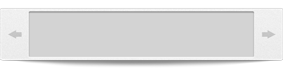
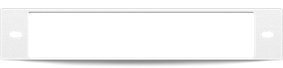
Started stubbing out the scroll view on the business card (lots of test code in the view currently)

diff --git a/QuizIn/QuizIn/Source/Classes/UI/Screens/Quizzes/BusinessCard/BusinessCardAnswer/QIBusinessCardAnswerView.m b/QuizIn/QuizIn/Source/Classes/UI/Screens/Quizzes/BusinessCard/BusinessCardAnswer/QIBusinessCardAnswerView.m
@@ -7,10 +7,15 @@
 //
 
 #import "QIBusinessCardAnswerView.h"
+#import "QIFontProvider.h"
 
 @interface QIBusinessCardAnswerView ()
 
 @property(nonatomic, strong) UIImageView *answerHolder;
+@property(nonatomic, strong) UIScrollView *answerScrollView;
+@property(nonatomic, strong) UILabel *answers;
+@property(nonatomic, strong) UILabel *answers1;
+@property(nonatomic, strong) UILabel *answers2;
 @property(nonatomic, strong) NSMutableArray *answerViewConstraints;
 
 @end
@@ -26,6 +31,10 @@
   self = [super initWithFrame:frame];
   if (self) {
     _answerHolder = [self newAnswerHolder];
+    _answerScrollView = [self newAnswerScrollView];
+    _answers = [self newAnswers];
+    _answers1 = [self newAnswers];
+    _answers2 = [self newAnswers];
     //[self setBackgroundColor:[UIColor colorWithWhite:.90f alpha:1.0]];
     [self constructViewHierarchy];
   }
@@ -43,7 +52,12 @@
 #pragma mark View Hierarchy
 
 - (void)constructViewHierarchy {
+  [_answerScrollView addSubview:_answers];
+  [_answerScrollView addSubview:_answers1];
+  [_answerScrollView addSubview:_answers2];
+  [self addSubview:self.answerScrollView];
   [self addSubview:self.answerHolder];
+  
 }
 
 #pragma mark Layout
@@ -53,7 +67,7 @@
   if (!self.answerViewConstraints){
     
     self.answerViewConstraints = [NSMutableArray array];
-    NSDictionary *answerHolderConstraintViews = NSDictionaryOfVariableBindings(_answerHolder);
+    NSDictionary *answerHolderConstraintViews = NSDictionaryOfVariableBindings(_answerHolder,_answerScrollView,_answers,_answers1,_answers2);
     
     NSArray *hAnswerHolder =
     [NSLayoutConstraint constraintsWithVisualFormat:@"H:|[_answerHolder]|"
@@ -67,8 +81,30 @@
                                             metrics:nil
                                               views:answerHolderConstraintViews];
     
+    NSArray *hScroller =
+    [NSLayoutConstraint constraintsWithVisualFormat:@"H:|-[_answerScrollView]-|"
+                                            options:NSLayoutFormatAlignAllTop
+                                            metrics:nil
+                                              views:answerHolderConstraintViews];
+    
+    NSArray *vScroller =
+    [NSLayoutConstraint constraintsWithVisualFormat:@"V:|-15-[_answerScrollView]-15-|"
+                                            options:NSLayoutFormatAlignAllCenterX
+                                            metrics:nil
+                                              views:answerHolderConstraintViews];
+    
+    NSArray *hNames =
+    [NSLayoutConstraint constraintsWithVisualFormat:@"H:|[_answers(==200)][_answers1(==_answers)][_answers2(==_answers)]|"
+                                            options:NSLayoutFormatAlignAllTop
+                                            metrics:nil
+                                              views:answerHolderConstraintViews];
+    
     [self.answerViewConstraints addObjectsFromArray:hAnswerHolder];
     [self.answerViewConstraints addObjectsFromArray:vAnswerHolder];
+    [self.answerViewConstraints addObjectsFromArray:hScroller];
+    [self.answerViewConstraints addObjectsFromArray:vScroller];
+    [self.answerViewConstraints addObjectsFromArray:hNames];
+
     [self addConstraints:self.answerViewConstraints];
   }
 }
@@ -84,6 +120,30 @@
   //TODO needs insets
   [answerHolder setTranslatesAutoresizingMaskIntoConstraints:NO];
   return answerHolder;
+}
+
+-(UIScrollView *)newAnswerScrollView{
+  UIScrollView *answerView = [[UIScrollView alloc] init];
+  [answerView setBackgroundColor:[UIColor colorWithWhite:.8f alpha:1.0f]];
+  [answerView setTranslatesAutoresizingMaskIntoConstraints:NO];
+  [answerView setContentSize:CGSizeMake(600,100)];
+  [answerView setPagingEnabled:YES];
+  [answerView setShowsHorizontalScrollIndicator:NO];
+  return answerView;
+}
+
+-(UILabel *)newAnswers{
+  UILabel *cardCompany = [[UILabel alloc] init];
+  cardCompany.text = @"Rick Kuhlman";
+  [cardCompany setTranslatesAutoresizingMaskIntoConstraints:NO];
+  [cardCompany setBackgroundColor:[UIColor clearColor]];
+  [cardCompany setFont:[QIFontProvider fontWithSize:14.0f style:Regular]];
+  [cardCompany setTextColor:[UIColor colorWithWhite:.50f alpha:1.0f]];
+  [cardCompany setAdjustsLetterSpacingToFitWidth:YES];
+  [cardCompany setAdjustsFontSizeToFitWidth:YES];
+  [cardCompany setMinimumScaleFactor:.8f];
+  [cardCompany setLineBreakMode:NSLineBreakByTruncatingMiddle];
+  return cardCompany;
 }
 
 @end

diff --git a/QuizIn/QuizIn/Source/Classes/UI/Screens/Quizzes/BusinessCard/QIBusinessCardQuizView.m b/QuizIn/QuizIn/Source/Classes/UI/Screens/Quizzes/BusinessCard/QIBusinessCardQuizView.m
@@ -16,6 +16,7 @@
 @property(nonatomic, strong) QIBusinessCardAnswerView *answerName;
 @property(nonatomic, strong) QIBusinessCardAnswerView *answerTitle;
 @property(nonatomic, strong) QIBusinessCardAnswerView *answerCompany;
+
 @property(nonatomic, strong) NSMutableArray *cardConstraints;
 @property(nonatomic, strong) NSMutableArray *answerConstraints;
 
@@ -83,6 +84,7 @@
   [self addSubview:self.answerName];
   [self addSubview:self.answerTitle];
   [self addSubview:self.answerCompany];
+  
   [self addSubview:self.nextQuestionButton];
 }
 

diff --git a/QuizIn/QuizIn/Source/Classes/UI/Screens/Quizzes/QIQuizViewController.m b/QuizIn/QuizIn/Source/Classes/UI/Screens/Quizzes/QIQuizViewController.m
@@ -37,7 +37,6 @@
 
   self.businessCardController = [[QIBusinessCardViewController alloc] init];
   [self addChildViewController:self.businessCardController];
-  
   [self.businessCardController.businessCardQuizView.nextQuestionButton addTarget:self action:@selector(nextPressed1) forControlEvents:UIControlEventTouchUpInside];
   
   [self.view addSubview:self.multipleChoiceController.view];
